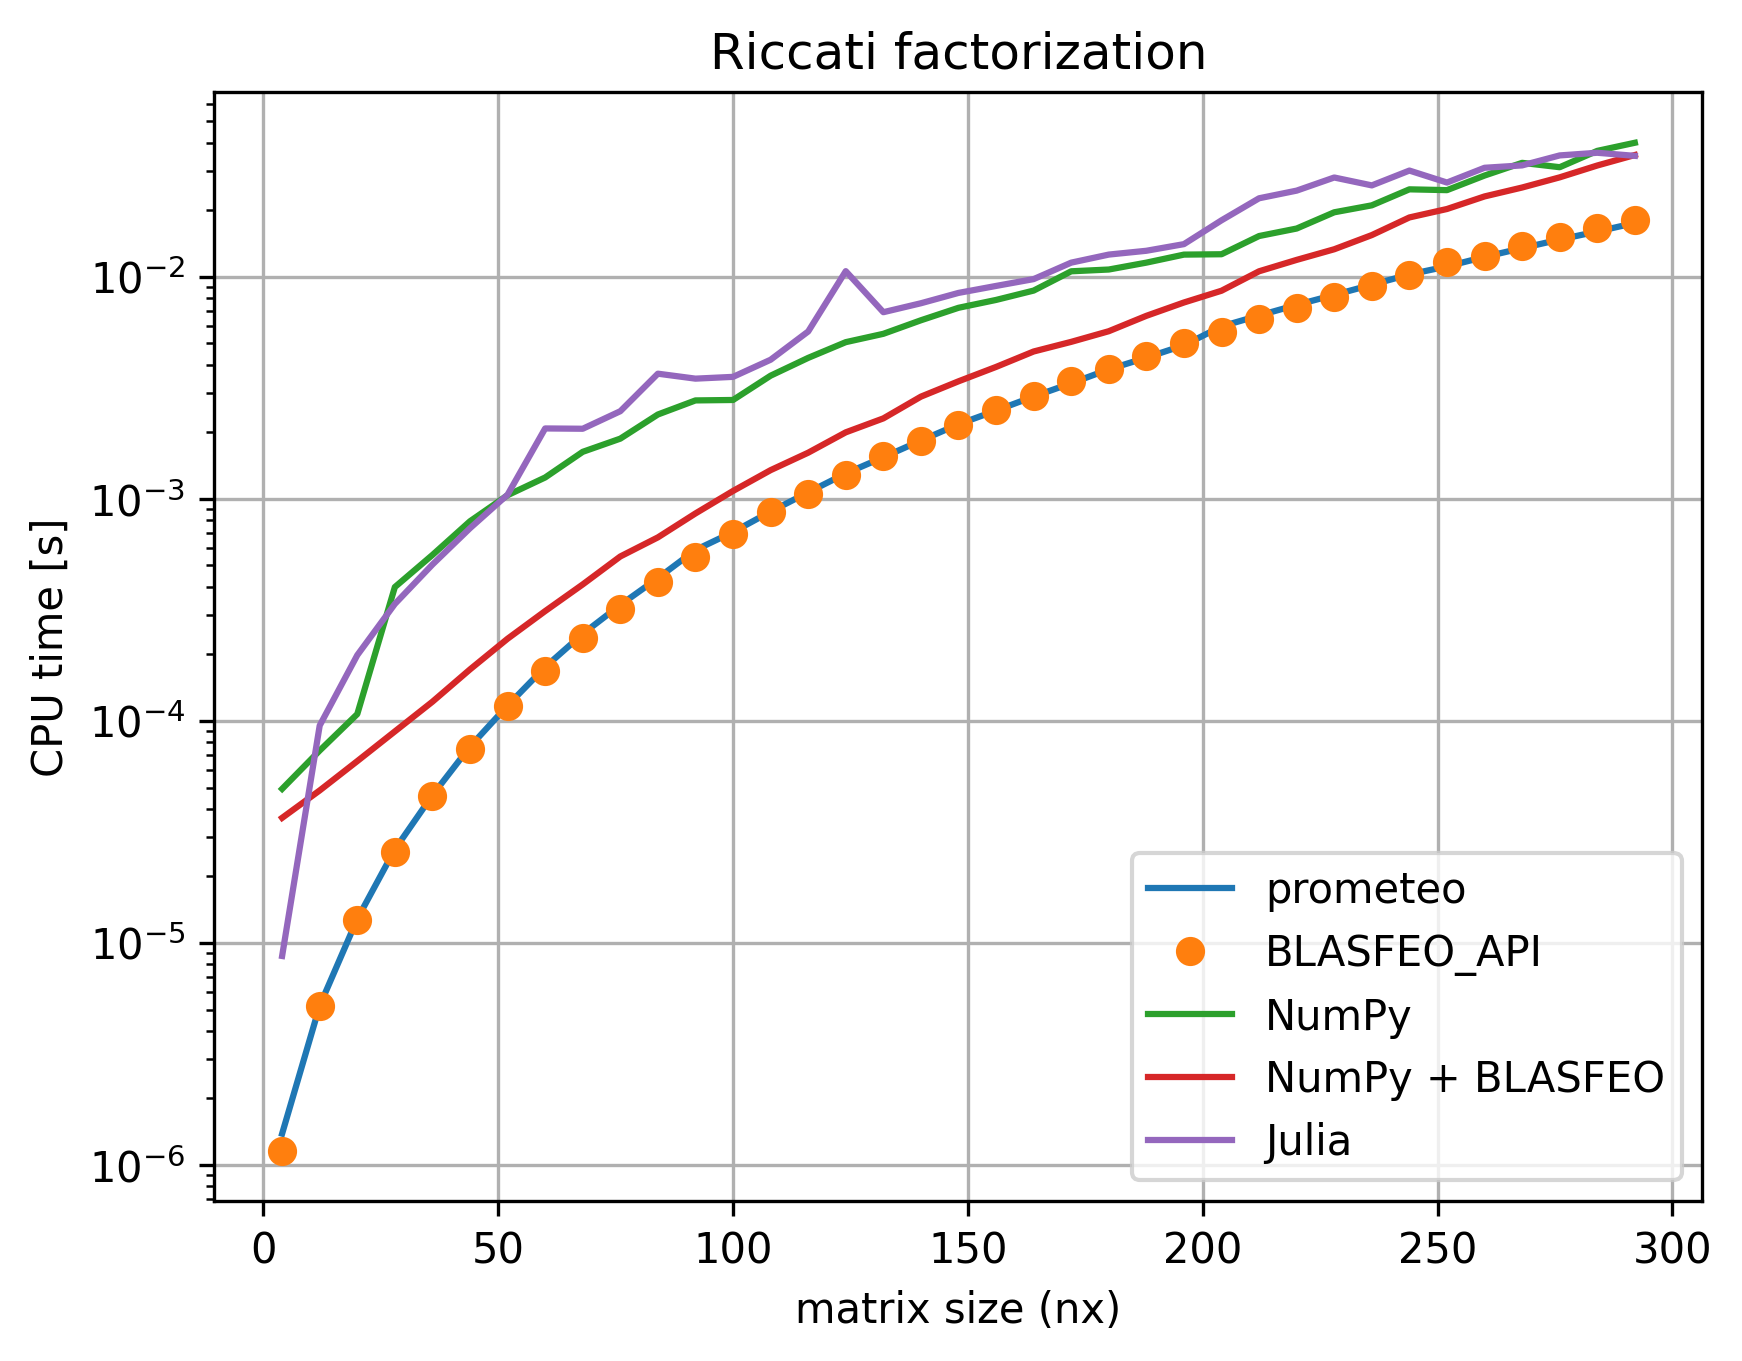
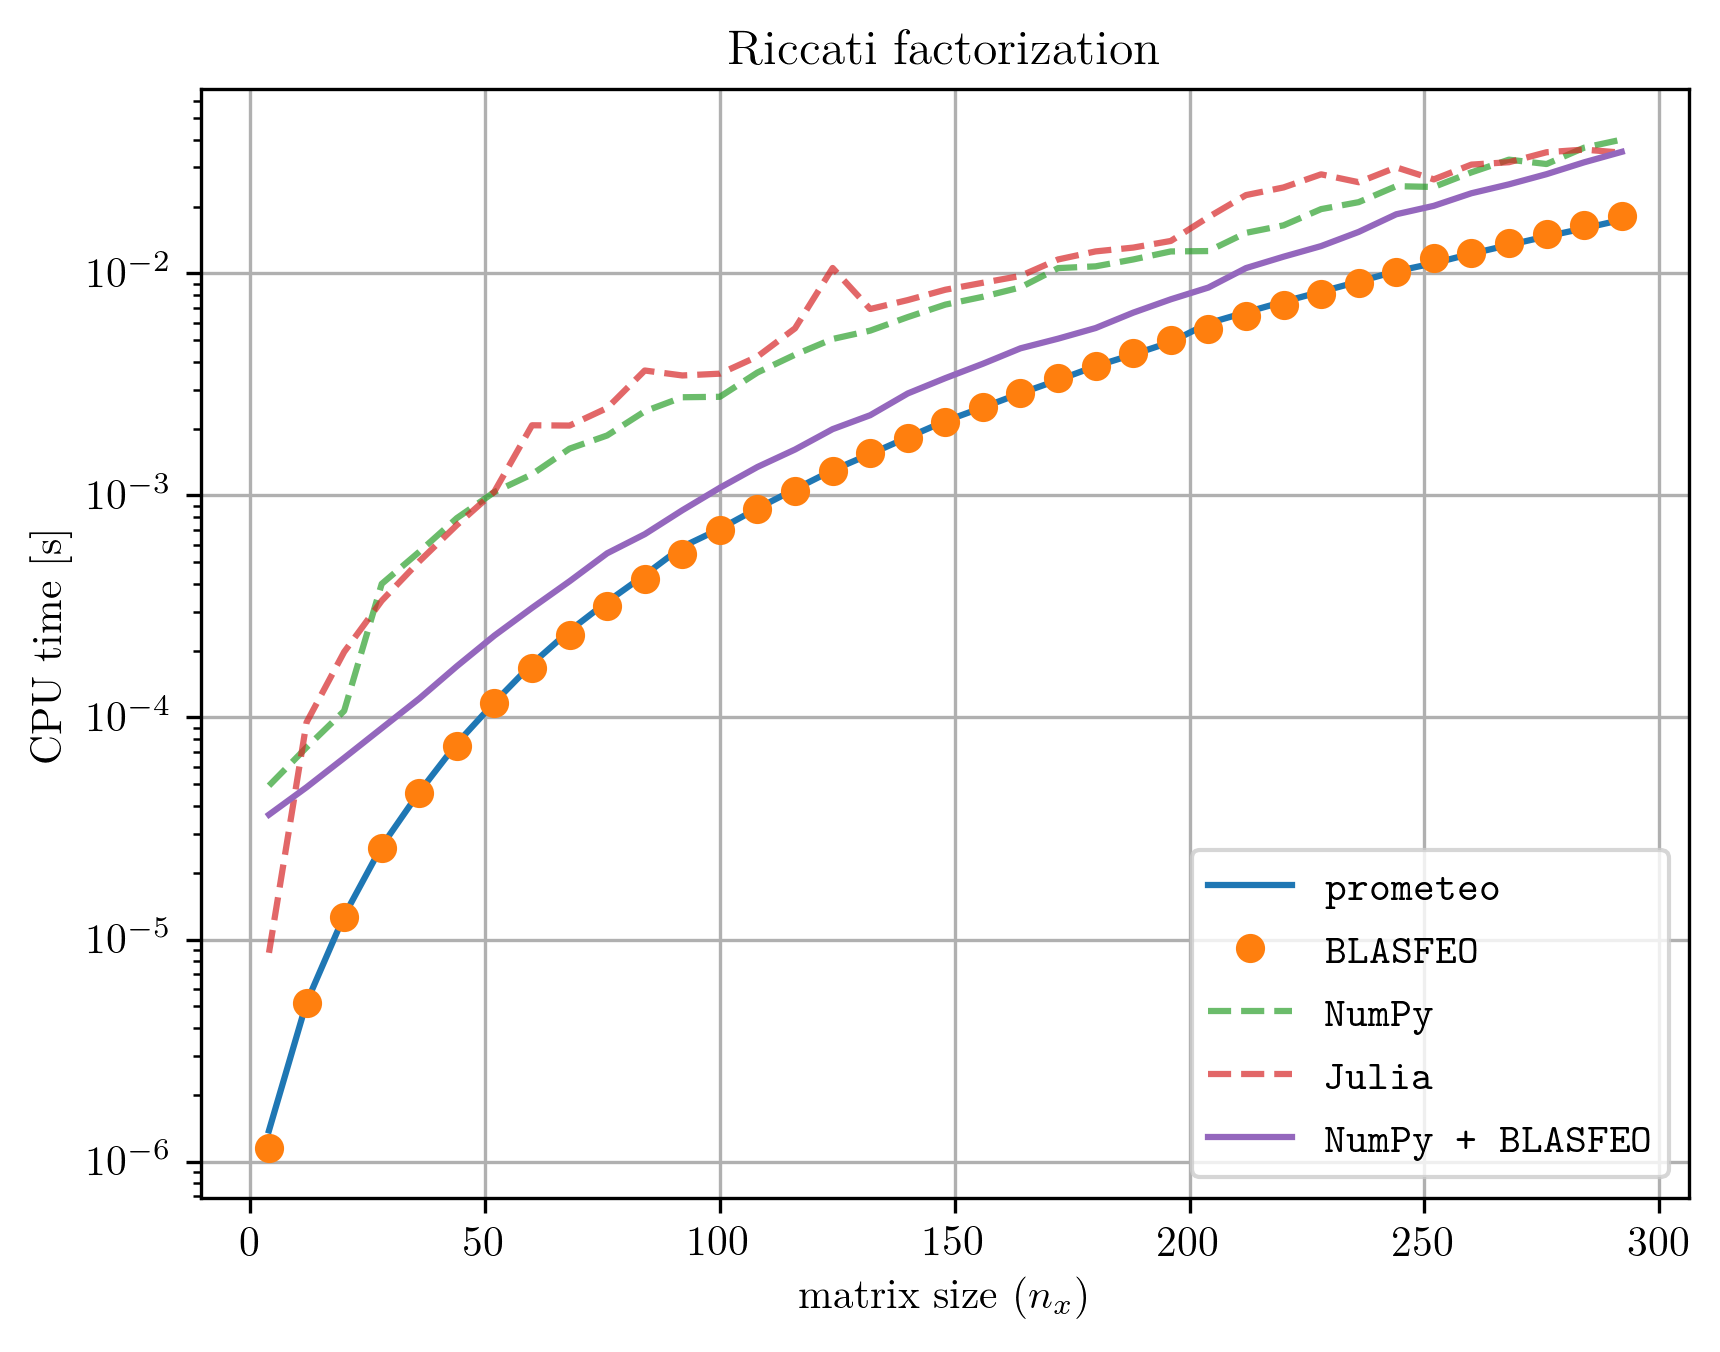
benchmark plot: change fonts and colors

diff --git a/benchmarks/run_benchmark.py b/benchmarks/run_benchmark.py
@@ -4,7 +4,10 @@ import json
 import matplotlib
 import matplotlib.pyplot as plt
 import matplotlib as mpl
-# mpl.style.use('v2.0')
+plt.rcParams['text.usetex'] = True
+plt.rcParams['text.latex.preamble'] = [r'\usepackage{lmodern}']
+font = {'family':'serif'}
+plt.rc('font',**font)
 
 NM = range(2,150,4)
 # NM = range(2,20,2)
@@ -76,40 +79,41 @@ AVG_CPU_TIME = np.array(AVG_CPU_TIME)
 plt.figure()
 plt.semilogy(2*AVG_CPU_TIME[:,1], AVG_CPU_TIME[:,0])
 
-legend = ['prometeo']
+legend = [r'\texttt{prometeo}']
 if LOAD_BLASFEO_RES:
     with open(blasfeo_res_file) as res:
         AVG_CPU_TIME_BLASFEO = json.load(res)
     AVG_CPU_TIME_BLASFEO = np.array(AVG_CPU_TIME_BLASFEO)
     plt.semilogy(2*AVG_CPU_TIME_BLASFEO[:,1], AVG_CPU_TIME_BLASFEO[:,0], 'o')
-    legend.append('BLASFEO_API')
+    legend.append(r'\texttt{BLASFEO}')
 
 if LOAD_NUMPY_RES:
     with open(numpy_res_file) as res:
         AVG_CPU_TIME_BLASFEO = json.load(res)
     AVG_CPU_TIME_BLASFEO = np.array(AVG_CPU_TIME_BLASFEO)
-    plt.semilogy(2*AVG_CPU_TIME_BLASFEO[:,1], AVG_CPU_TIME_BLASFEO[:,0])
-    legend.append('NumPy')
+    plt.semilogy(2*AVG_CPU_TIME_BLASFEO[:,1], AVG_CPU_TIME_BLASFEO[:,0], '--', alpha=0.7)
+    legend.append(r'\texttt{NumPy}')
+
+if LOAD_JULIA_RES:
+    with open(julia_res_file) as res:
+        AVG_CPU_TIME_BLASFEO = json.load(res)
+    AVG_CPU_TIME_BLASFEO = np.array(AVG_CPU_TIME_BLASFEO)
+    plt.semilogy(2*AVG_CPU_TIME_BLASFEO[:,1], AVG_CPU_TIME_BLASFEO[:,0], '--',alpha=0.7)
+    legend.append(r'\texttt{Julia}')
 
 if LOAD_NUMPY_BLASFEO_RES:
     with open(numpy_blasfeo_res_file) as res:
         AVG_CPU_TIME_BLASFEO = json.load(res)
     AVG_CPU_TIME_BLASFEO = np.array(AVG_CPU_TIME_BLASFEO)
     plt.semilogy(2*AVG_CPU_TIME_BLASFEO[:,1], AVG_CPU_TIME_BLASFEO[:,0])
-    legend.append('NumPy + BLASFEO')
+    legend.append(r'\texttt{NumPy + BLASFEO}')
 
-if LOAD_JULIA_RES:
-    with open(julia_res_file) as res:
-        AVG_CPU_TIME_BLASFEO = json.load(res)
-    AVG_CPU_TIME_BLASFEO = np.array(AVG_CPU_TIME_BLASFEO)
-    plt.semilogy(2*AVG_CPU_TIME_BLASFEO[:,1], AVG_CPU_TIME_BLASFEO[:,0])
-    legend.append('Julia')
 
 plt.legend(legend)
 plt.grid()
-plt.xlabel('matrix size (nx)')
-plt.ylabel('CPU time [s]')
-plt.title('Riccati factorization')
+plt.xlabel(r'matrix size ($n_x$)')
+plt.ylabel(r'CPU time [s]')
+plt.title(r'Riccati factorization')
 if UPDATE_FIGURE:
     plt.savefig(figname + '.png', dpi=300, bbox_inches="tight")
 plt.show()
